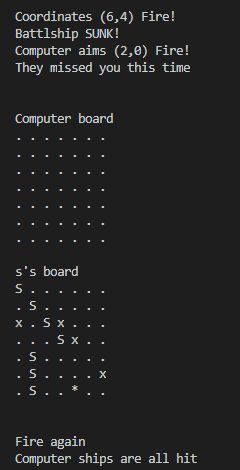
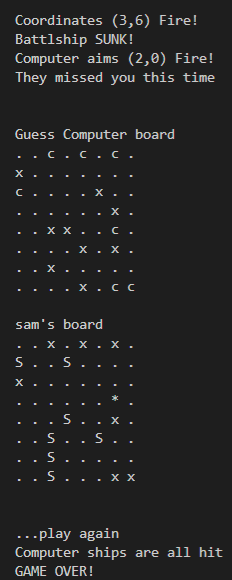
Fix Heroku error

diff --git a/run.py b/run.py
@@ -15,16 +15,17 @@ def how_play():
     print("\n")
     print("How to Play the Game:")
     print("The aim is to sink your opponents ship.")
-    print("Each row uses co-ordinates of (0,9) across 8 rows.")
-    print("Inputs must use numbers between (0,6) for row and column, eg.(0,0)")
+    print("Each row uses co-ordinates of (0,7) across 8 rows.")
+    print("Inputs must use numbers between (0,7) for row and column, eg.(0,0)")
     print("Board is represented by a grid of dots")
-    print("Hits are marked with a * and Misses are markeds by x")
+    print("Hits are marked with * and Misses are marked by x")
+    print("Computer guesses are marked by c")
     print("You have 10 go's to sink the ship.")
 
 
-for x in range(0, 7):
-    computer_board.append(['.'] * 7)
-    player_board.append(['.'] * 7)
+for x in range(0, 8):
+    computer_board.append(['.'] * 8)
+    player_board.append(['.'] * 8)
     # This for loop creates a list of 8 rows it then
     # appends this array with dots to represent board
 
@@ -88,10 +89,10 @@ def battleship():
             player_col = int(player_col)
             player_row = int(player_row)
 
-            if player_row < 0 or player_row > 6 or \
-                    player_col < 0 or player_col > 6:
+            if player_row < 0 or player_row > 7 or \
+                    player_col < 0 or player_col > 7:
                 print("Oops out of grid area")
-                print("Choose again between 0 and 6")
+                print("Choose again between 0 and 7")
             elif(player_row, player_col) in set_ships:
                 print("A ship sails here already")
             else:
@@ -116,8 +117,8 @@ def battleship():
 
         # Guess logic for the player row and column
         # of where the ship is on the board
-        if player_guess_row < int(0) or player_guess_row > int(6) or \
-                (player_guess_col < 0 or player_guess_col > 6):
+        if player_guess_row < int(0) or player_guess_row > int(7) or \
+                (player_guess_col < 0 or player_guess_col > 7):
             print("Not even near it")
         elif player_board[player_guess_row][player_guess_col] == "*":
             print("Already Sunk this one!")
@@ -128,8 +129,8 @@ def battleship():
             computer_board[player_guess_row][player_guess_col] = "*"
             computer_destroyed += 1
         else:
-            if (player_guess_row < 0 or player_guess_row < 6) or\
-                    (player_guess_col < 0 or player_guess_col < 6):
+            if (player_guess_row < 0 or player_guess_row < 7) or\
+                    (player_guess_col < 0 or player_guess_col < 7):
                 print("Not even near")
             elif player_board[player_guess_row][player_guess_col] == "x":
                 print("Already Sunk this one!")
@@ -142,11 +143,13 @@ def battleship():
         if comp_guess_row == player_row and comp_guess_col == player_col:
             player_board[comp_guess_row][comp_guess_col] = "*"
             computer_board[comp_guess_row][comp_guess_col] = "*"
+            computer_board[player_guess_row][player_guess_col] = "x"
             print("Computer HIT and SINKS!")
             player_destroyed += 1
         else:
             player_board[comp_guess_row][comp_guess_col] = "x"
-            computer_board[comp_guess_row][comp_guess_col] = "x"
+            computer_board[comp_guess_row][comp_guess_col] = "c"
+            computer_board[player_guess_row][player_guess_col] = "x"
             print("They missed you this time")
 
         print("\n")
@@ -163,6 +166,7 @@ def battleship():
             print("...play again")
         if computer_destroyed == 1:
             print("Computer ships are all hit")
+            print("GAME OVER!")
             break
 
         if player_destroyed == 1:

diff --git a/README.md b/README.md
@@ -137,12 +137,14 @@ A notification will let the player know if there has been a hit or miss and a ov
 
 ![Computer-win](./assets/images/computer-win.png)
 
-Duplicate
+![Joint-win](./assets/images/joint-win.png)
+
 
 Error logic
 
 * Notable Bugs
 There were a few bugs in this program I went through them using GitPod and PEP8. once I worked through the issues that were identified in GitPod I checked for errors in PEP8 and I noticed that there are some erros that showed up in GitPod that did not in PEP8 see examples of the working through them.
+I had a bug in deploying Heroku I checked all the processes of the deployment and deployed it 3 times to work out the bug was resolved by removing images in the views folder and updating the layout.html made the app work in Heroku.
 
 
 * PEP8
